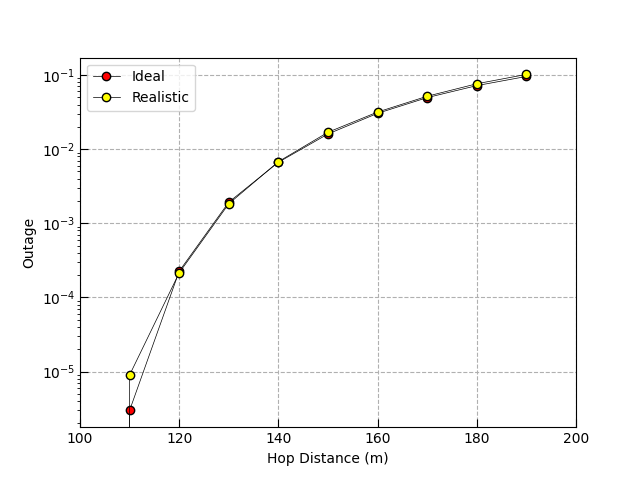
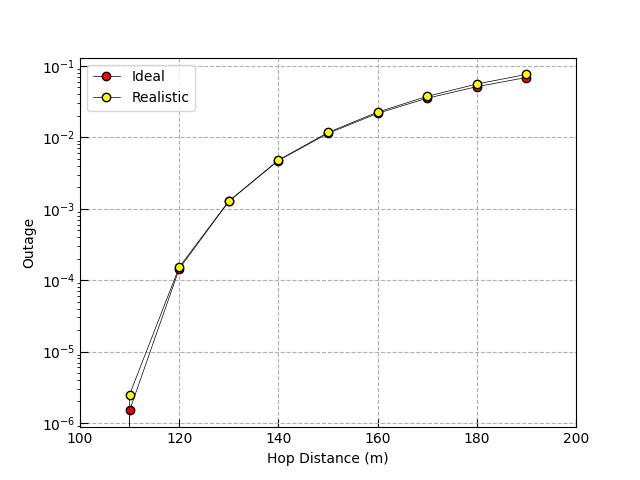
create hops sim. update figures

diff --git a/Modelling/Hops/v2x.py b/Modelling/Hops/v2x.py
@@ -4,17 +4,17 @@ from scipy import constants
 import scipy
 
 # SIM PARAMETERS
-N = 500_000 # Num iterations
+N = 1_000_000 # Num iterations
 L = 1 # Number of links to target
-NUM_CARS = 4 # Total number of cars for radar bounces
+NUM_CARS = 2 # Total number of cars for radar bounces
 NUM_INTERFERERS = 2 # Total number of interfering cars
-NUM_POINTS = 15
-NUM_PLOTS = 3
+NUM_POINTS = 10
+NUM_PLOTS = 1
 
 target_rcs = 100
 vru_rcs = 10
-reuse_dist = 200
-link_dist = 150
+reuse_dist = 300
+link_dist = 110
 
 # ANTENNA PARAMETERS
 Nct = 8 # Comms Transmit antennas
@@ -65,16 +65,16 @@ c_noise_power = 10**((-152 + 10*np.log10(c_Bandwidth))/10)
 # R_r_max = np.pow((sensing_power * Nsr * rAntennaGain * tAntennaGain * target_rcs * s_carrier_w**2) / (np.pow(4*constants.pi, 3)*s_noise_power*radar_snr_th), 0.25)
 # R_c_max = np.sqrt((comms_power * Ncr * c_carrier_w**2 * K)/(np.pow(4*constants.pi, 2) * c_noise_power*comms_snr_th*(K+1)))
 # R_max = min(R_r_max, R_c_max, 150) # 150 m unless otherwise required
-# R_min = 30
-R_max = 150
-# dists = np.arange(R_min, R_max, (R_max - R_min) / NUM_POINTS)
+R_min = 100
+R_max = 200
+dists = np.arange(R_min, R_max, (R_max - R_min) / NUM_POINTS)
 
 # Power variation
-sensing_powers = np.arange(1, total_power - 1, (total_power - 2) / NUM_POINTS)
-comms_powers = total_power - sensing_powers
+# sensing_powers = np.arange(1, total_power - 1, (total_power - 2) / NUM_POINTS)
+# comms_powers = total_power - sensing_powers
 
 # Reuse dist variation
-# reuse_dists = np.arange(20, 200, (180 / NUM_POINTS))
+# reuse_dists = np.arange(200, 500, (300 / NUM_POINTS))
 
 # Bandwidth Variation
 # c_Bandwidths = np.arange(100, 600, 100)
@@ -106,14 +106,18 @@ for a in range(NUM_PLOTS):
         vru_outage_count = 0
         snr_total = 0
 
+        # link_dist = dists[d]
+
         # reuse_dist = reuse_dists[d]
 
         # c_Bandwidth = c_Bandwidths[d]
         # r_Bandwidth = r_Bandwidths[d]
         # s_noise_power = constants.k * noiseFigure * noiseTemp * r_Bandwidth
 
-        sensing_power = sensing_powers[d]
-        comms_power = comms_powers[d]
+        # sensing_power = sensing_powers[d]
+        # comms_power = comms_powers[d]
+
+        L = d + 1
 
         for n in range(N):
             outage_iteration = False
@@ -273,25 +277,25 @@ names = ["Ideal", "Realistic", "None"]
 
 plt.figure()
 for i in range(NUM_PLOTS):
-    plt.plot(sensing_powers, sim_outage[i], 'ko-', label=names[i], linewidth=0.5, markerfacecolor=colours[i], markersize=6)
+    plt.plot(dists, sim_outage[i], 'ko-', label=names[i], linewidth=0.5, markerfacecolor=colours[i], markersize=6)
     # plt.plot(theory[i], comms_powers, 'ko--', label="Theory = "+str(-170 + i*10) , linewidth=0.5, markerfacecolor="none", markersize=6)
-plt.xlabel("Radar Power (W)")
+plt.xlabel("Number of Hops")
 plt.ylabel("Outage")
 plt.yscale('log')
 # plt.ylim([0, 10])
-plt.xlim([0, 15])
+plt.xlim(1, NUM_POINTS)
 plt.legend()
 plt.tick_params(axis='both', direction='in', length=6)
 plt.grid(True, linestyle='--')
 
 plt.figure()
 for i in range(NUM_PLOTS):
-    plt.plot(sensing_powers, sim_rate[i], 'ko-', label=names[i], linewidth=0.5, markerfacecolor=colours[i], markersize=6)
-plt.xlabel("Radar Power (W)")
+    plt.plot(dists, sim_rate[i], 'ko-', label=names[i], linewidth=0.5, markerfacecolor=colours[i], markersize=6)
+plt.xlabel("Number of Hops")
 plt.ylabel("Rate (Mbits/sec)")
 plt.yscale('log')
 # plt.ylim([0, 10])
-plt.xlim([0, 15])
+plt.xlim(1, NUM_POINTS)
 plt.legend()
 plt.tick_params(axis='both', direction='in', length=6)
 plt.grid(True, linestyle='--')
@@ -299,12 +303,12 @@ plt.grid(True, linestyle='--')
 plot_pd = np.mean(sim_pd, 0)
 
 plt.figure()
-plt.plot(sensing_powers, plot_pd, 'ko-', linewidth=0.5, markerfacecolor="none", markersize=6)
-plt.xlabel("Radar Power (W)")
+plt.plot(dists, plot_pd, 'ko-', linewidth=0.5, markerfacecolor="none", markersize=6)
+plt.xlabel("Number of Hops")
 plt.ylabel("Probability of Detection")
 plt.yscale('log')
 # plt.ylim([0.1, 1])
-plt.xlim([0, 15])
+plt.xlim(1, NUM_POINTS)
 # plt.legend()
 plt.tick_params(axis='both', direction='in', length=6)
 plt.grid(True, linestyle='--')
@@ -312,24 +316,24 @@ plt.grid(True, linestyle='--')
 plot_pd_t = np.mean(sim_pd_t, 0)
 
 plt.figure()
-plt.plot(sensing_powers, plot_pd_t, 'ko-', linewidth=0.5, markerfacecolor="none", markersize=6)
-plt.xlabel("Radar Power (W)")
+plt.plot(dists, plot_pd_t, 'ko-', linewidth=0.5, markerfacecolor="none", markersize=6)
+plt.xlabel("Number of Hops")
 plt.ylabel("Probability of Detection")
 plt.yscale('log')
 # plt.ylim([0.1, 1])
-plt.xlim([0, 15])
+plt.xlim(1, NUM_POINTS)
 # plt.legend()
 plt.tick_params(axis='both', direction='in', length=6)
 plt.grid(True, linestyle='--')
 
 plt.figure()
 for i in range(NUM_PLOTS):
-    plt.plot(sensing_powers, sim_se[i], 'ko-', label=names[i], linewidth=0.5, markerfacecolor=colours[i], markersize=6)
-plt.xlabel("Radar Power (W)")
+    plt.plot(dists, sim_se[i], 'ko-', label=names[i], linewidth=0.5, markerfacecolor=colours[i], markersize=6)
+plt.xlabel("Number of Hops")
 plt.ylabel("Spectral Efficiency (Bits/s/Hz)")
 # plt.yscale('log')
 # plt.ylim([0, 10])
-plt.xlim([0, 15])
+plt.xlim(1, NUM_POINTS)
 plt.legend()
 plt.tick_params(axis='both', direction='in', length=6)
 plt.grid(True, linestyle='--')

diff --git a/Modelling/Reuse_Dist/v2x.py b/Modelling/Reuse_Dist/v2x.py
@@ -4,9 +4,9 @@ from scipy import constants
 import scipy
 
 # SIM PARAMETERS
-N = 2_000_000 # Num iterations
+N = 1_000_000 # Num iterations
 L = 1 # Number of links to target
-NUM_CARS = 2 # Total number of cars for radar bounces
+NUM_CARS = 4 # Total number of cars for radar bounces
 NUM_INTERFERERS = 2 # Total number of interfering cars
 NUM_POINTS = 10
 NUM_PLOTS = 2

diff --git a/Modelling/Dist/v2x.py b/Modelling/Dist/v2x.py
@@ -6,7 +6,7 @@ import scipy
 # SIM PARAMETERS
 N = 2_000_000 # Num iterations
 L = 1 # Number of links to target
-NUM_CARS = 2 # Total number of cars for radar bounces
+NUM_CARS = 4 # Total number of cars for radar bounces
 NUM_INTERFERERS = 2 # Total number of interfering cars
 NUM_POINTS = 10
 NUM_PLOTS = 2

diff --git a/Modelling/v2x.py b/Modelling/v2x.py
@@ -6,7 +6,7 @@ import scipy
 # SIM PARAMETERS
 N = 5_00_000 # Num iterations
 L = 1 # Number of links to target
-NUM_CARS = 2 # Total number of cars for radar bounces
+NUM_CARS = 4 # Total number of cars for radar bounces
 NUM_INTERFERERS = 2 # Total number of interfering cars
 NUM_POINTS = 15
 NUM_PLOTS = 1

diff --git a/Modelling/Bandwidth/v2x.py b/Modelling/Bandwidth/v2x.py
@@ -6,7 +6,7 @@ import scipy
 # SIM PARAMETERS
 N = 400_000 # Num iterations
 L = 1 # Number of links to target
-NUM_CARS = 2 # Total number of cars for radar bounces
+NUM_CARS = 4 # Total number of cars for radar bounces
 NUM_INTERFERERS = 2 # Total number of interfering cars
 NUM_POINTS = 10
 NUM_PLOTS = 2
